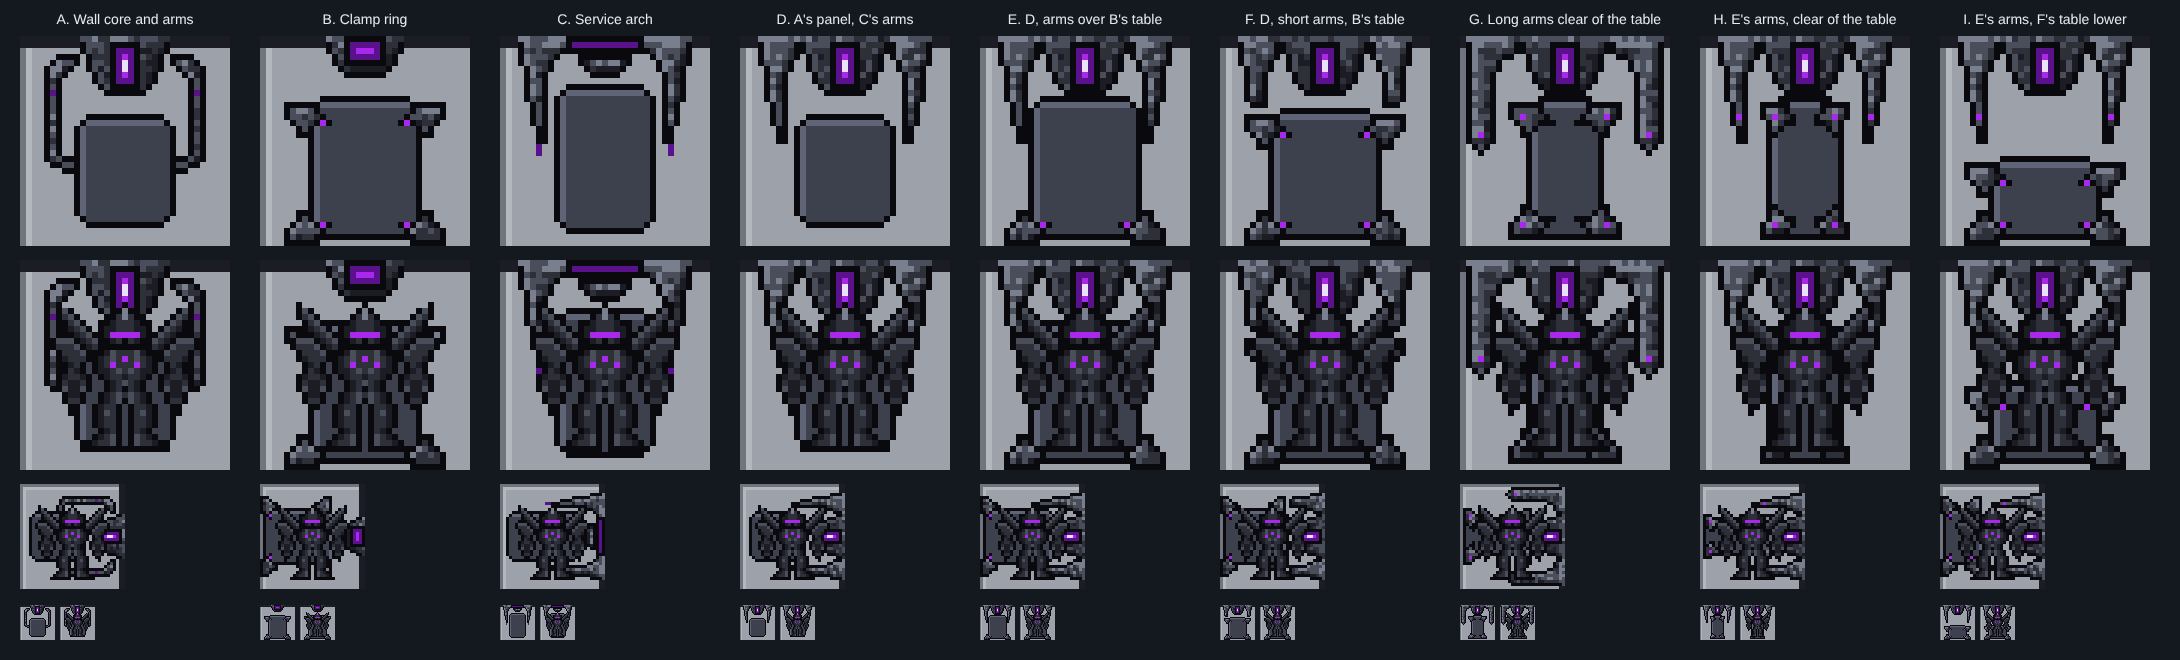
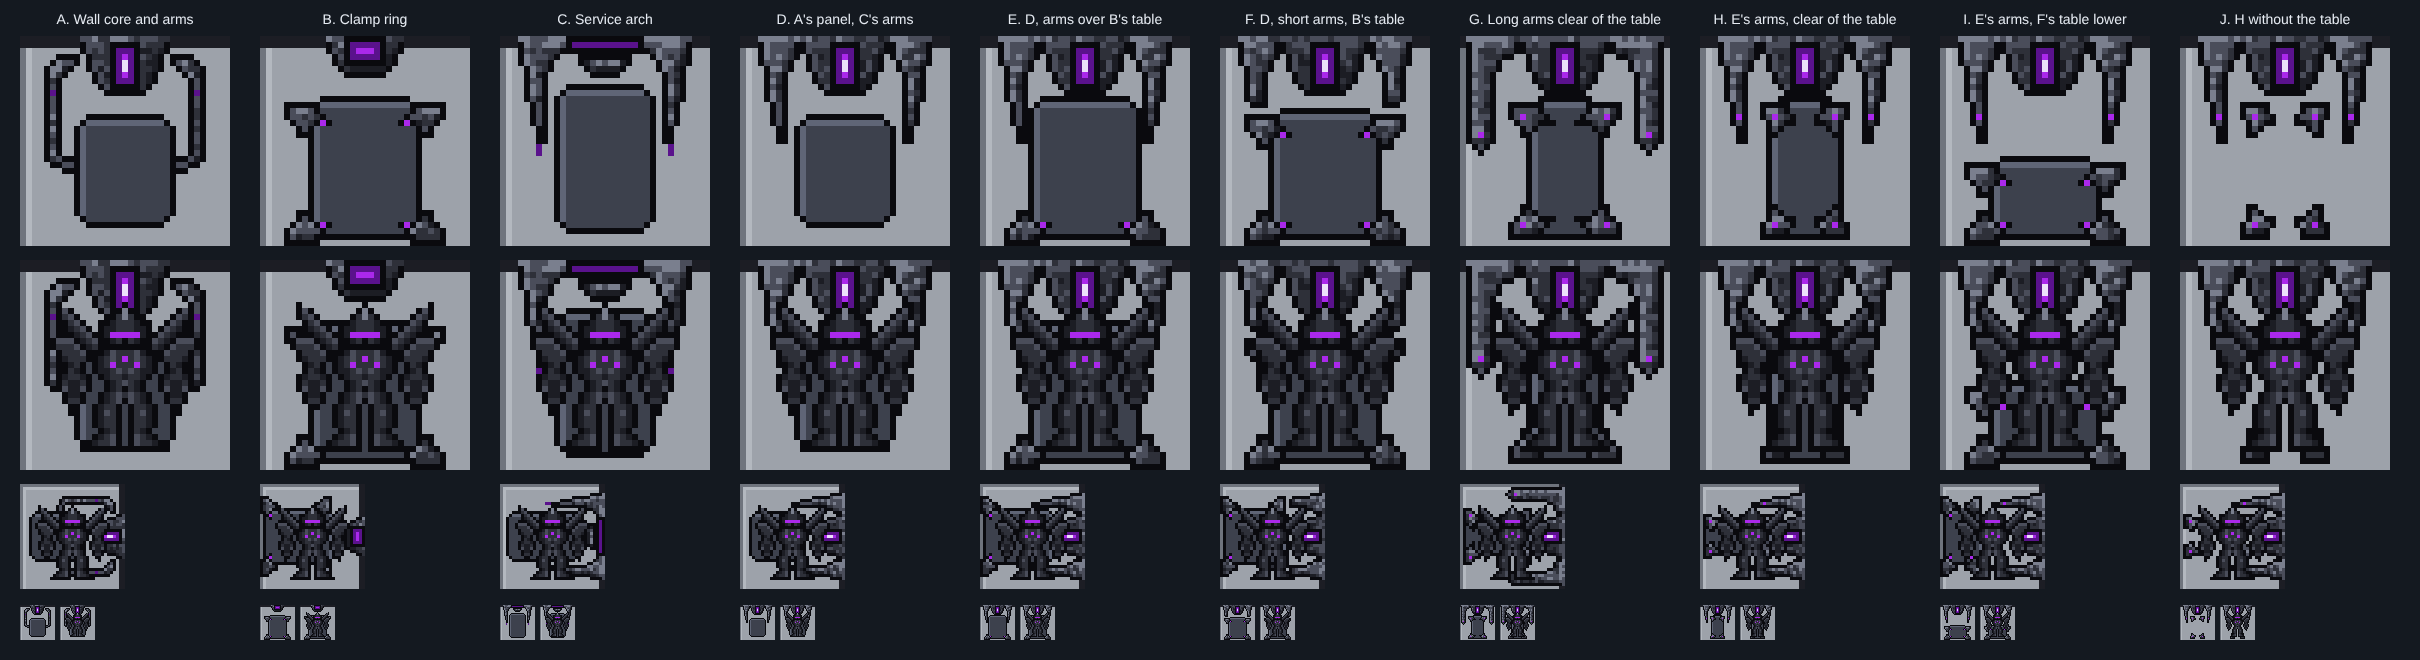
Mecha Servicing Core J: H with the table removed
Claude-Session: https://claude.ai/code/session_01WZGEuQ1NEBVidT9MSQSZ2z

diff --git a/docs/art/mecha/servicing-core/tools/core_px.py b/docs/art/mecha/servicing-core/tools/core_px.py
@@ -183,7 +183,7 @@ def core_g(top=10):
     return px
 
 
-def core_h(top=10):
+def core_h(top=10, table=True):
     """H. G with E's arms back (C's tapered arms, unchanged): the table narrowed and its upper jaws drawn compact so
     the arms stay 2 px clear; four jaws with a purple light each, and a purple light inside each arm near its foot."""
     body = housing({0: (10, 17), 1: (10, 17), 2: (10, 17), 3: (11, 17), 4: (11, 17), 5: (11, 17), 6: (12, 17),
@@ -194,7 +194,8 @@ def core_h(top=10):
     low = {(x, 2 * top + 24 - y) for x, y in jaw}
     jaws = jaw | mirror(jaw) | low | mirror(low)
     px = {}
-    pad(px, 11, top, 24, 34, corners=False)
+    if table:
+        pad(px, 11, top, 24, 34, corners=False)
     px.update(shade_parts([(jaws, ARMOUR)], 9))
     px.update(shade_parts([(arms, ARMOUR), (body, DARK)], 9))
     core_window(px, 16, 2, 19, 8)
@@ -229,11 +230,17 @@ def core_i(top=20):
     return px
 
 
+def core_j():
+    """J. H with its table removed, nothing else changed (heromedel): the four jaws stand on the deck."""
+    return core_h(table=False)
+
+
 OPTIONS = [("A. Wall core and arms", core_a), ("B. Clamp ring", core_b), ("C. Service arch", core_c), ("D. A's panel, C's arms", core_d),
            ("E. D, arms over B's table", core_e), ("F. D, short arms, B's table", core_f),
            ("G. Long arms clear of the table", core_g),
            ("H. E's arms, clear of the table", core_h),
-           ("I. E's arms, F's table lower", core_i)]
+           ("I. E's arms, F's table lower", core_i),
+           ("J. H without the table", core_j)]
 TURN_E = lambda x, y: (34 - y, x)
 
 
@@ -266,7 +273,7 @@ if __name__ == "__main__":
     cells = []
     for i, (name, fn) in enumerate(OPTIONS):
         px = fn()
-        open(os.path.join(out, f"core-option-{'abcdefghi'[i]}.svg"), "w").write(
+        open(os.path.join(out, f"core-option-{'abcdefghij'[i]}.svg"), "w").write(
             f'<svg xmlns="http://www.w3.org/2000/svg" viewBox="0 0 35 35" width="35" height="35">{to_svg(px)}</svg>\n')
         x0 = 20 + i * (T * S + 30)
         cells.append(

diff --git a/docs/art/mecha/servicing-core/README.md b/docs/art/mecha/servicing-core/README.md
@@ -30,6 +30,8 @@ faces up and is never turned. Two ways to fit them (`review/mix-tiles.png`, `rev
 
 | I | E's arms with F's table unchanged in shape (heromedel: closer to F's table), moved down so its upper jaws sit 2 px below the arm tips |
 
-`review/f-h-i.png`, `review/i-inroom.png` show I. `review/e-vs-h.png`, `review/h-inroom.png` show H. `review/g-tile.png`, `review/g-inroom.png` show G. `review/inroom.png` shows each in the battle cross's core room, empty and with a HalfMech standing in it.
+| J | H with its table removed and nothing else changed (heromedel): the four jaws stand on the deck |
+
+`review/h-vs-j.png`, `review/j-inroom.png` show J. `review/f-h-i.png`, `review/i-inroom.png` show I. `review/e-vs-h.png`, `review/h-inroom.png` show H. `review/g-tile.png`, `review/g-inroom.png` show G. `review/inroom.png` shows each in the battle cross's core room, empty and with a HalfMech standing in it.
 
 Built by `tools/core_px.py ../crew/mecha-crew-sheet.svg OUT_DIR`.
